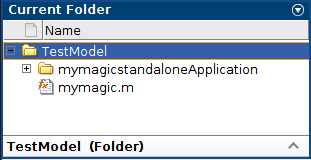
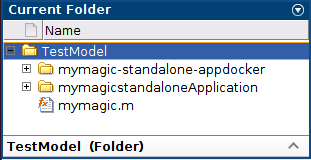
update

Changed region(s): [[0.3762, 0.375, 0.8682, 0.5938], [0.0579, 0.4688, 0.4341, 0.7188]]

diff --git a/documentation/PackageMatlabApplication.md b/documentation/PackageMatlabApplication.md
@@ -48,8 +48,58 @@ This example shows how to package a MATLAB® standalone application into a Docke
           Options: [1×1 compiler.build.StandaloneApplicationOptions]
     ```
 
-    - Once the build is complete, the function creates a folder named `mymagicstandaloneApplication` in your current directory to store the standalone application. The Results object res returned at the MATLAB command prompt contains information about the build.
+    - Once the build is complete, the function creates a folder named `mymagicstandaloneApplication` in your current directory to store the standalone application. The Results object `res` returned at the MATLAB command prompt contains information about the build. See *after compilation image*
 
-    |       **Before compilation**       |        **After compilation**       |      **After Docker Creation**      |
-    |:----------------------------------:|:----------------------------------:|:-----------------------------------:|
-    |![image](./images/matlab_before.png)| ![image](./images/matlab_after.png)| ![image](./images/matlab_medium.png)|
+4. Package Standalone Application into Docker Image
+
+    - Create DockerOptions Object
+
+      - Prior to creating a Docker image, create a DockerOptions object using the [compiler.package.DockerOptions](https://es.mathworks.com/help/compiler/compiler.package.dockeroptions.html) function and pass the Results object res and an image name mymagic-standalone-app as input arguments. The compiler.package.DockerOptions function lets you customize Docker image packaging. See *after Docker creation image*
+
+    ```console
+    opts = compiler.package.DockerOptions(res,'ImageName','mymagic-standalone-app')
+    ```
+
+    - Expected Output:
+
+    ```console
+    opts = 
+      DockerOptions with properties:
+
+                EntryPoint: 'mymagic'
+        ExecuteDockerBuild: on
+                 ImageName: 'mymagic-standalone-app'
+             DockerContext: './mymagic-standalone-appdocker'
+    ```
+
+    - Create Docker Image
+      - Create a Docker image using the [compiler.package.docker](https://es.mathworks.com/help/compiler/compiler.package.docker.html) function and pass the Results object res and the DockerOptions object opts as input arguments.
+
+    ```console
+    compiler.package.docker(res, 'Options', opts)
+    ```
+
+    - Expected Output:
+
+    ```console
+    Generating Runtime Image
+    Cleaning MATLAB Runtime installer location. It may take several minutes...
+    Copying MATLAB Runtime installer. It may take several minutes...
+    ...
+    ...
+    ...
+    Successfully built 6501fa2bc057
+    Successfully tagged mymagic-standalone-app:latest
+
+    DOCKER CONTEXT LOCATION:
+
+    /home/user/MATLAB/work/mymagic-standalone-appdocker
+
+    SAMPLE DOCKER RUN COMMAND:
+
+    docker run --rm -e "DISPLAY=:0" -v /tmp/.X11-unix:/tmp/.X11-unix mymagic-standalone-app
+    ```
+
+|       **Before compilation**       |        **After compilation**       |      **After Docker Creation**      |
+|:----------------------------------:|:----------------------------------:|:-----------------------------------:|
+|![image](./images/matlab_before.png)| ![image](./images/matlab_after.png)| ![image](./images/matlab_medium.png)|
